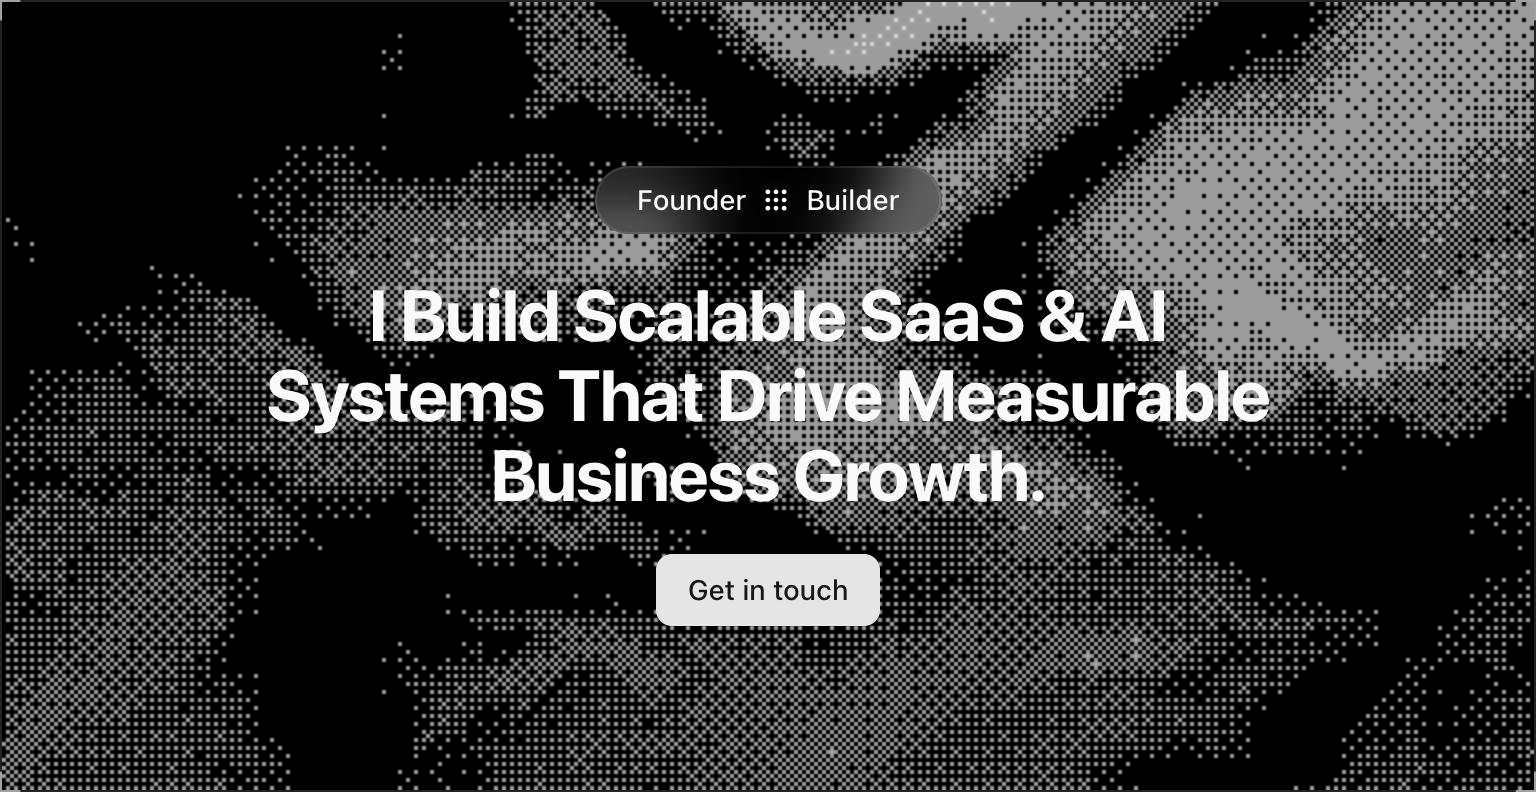
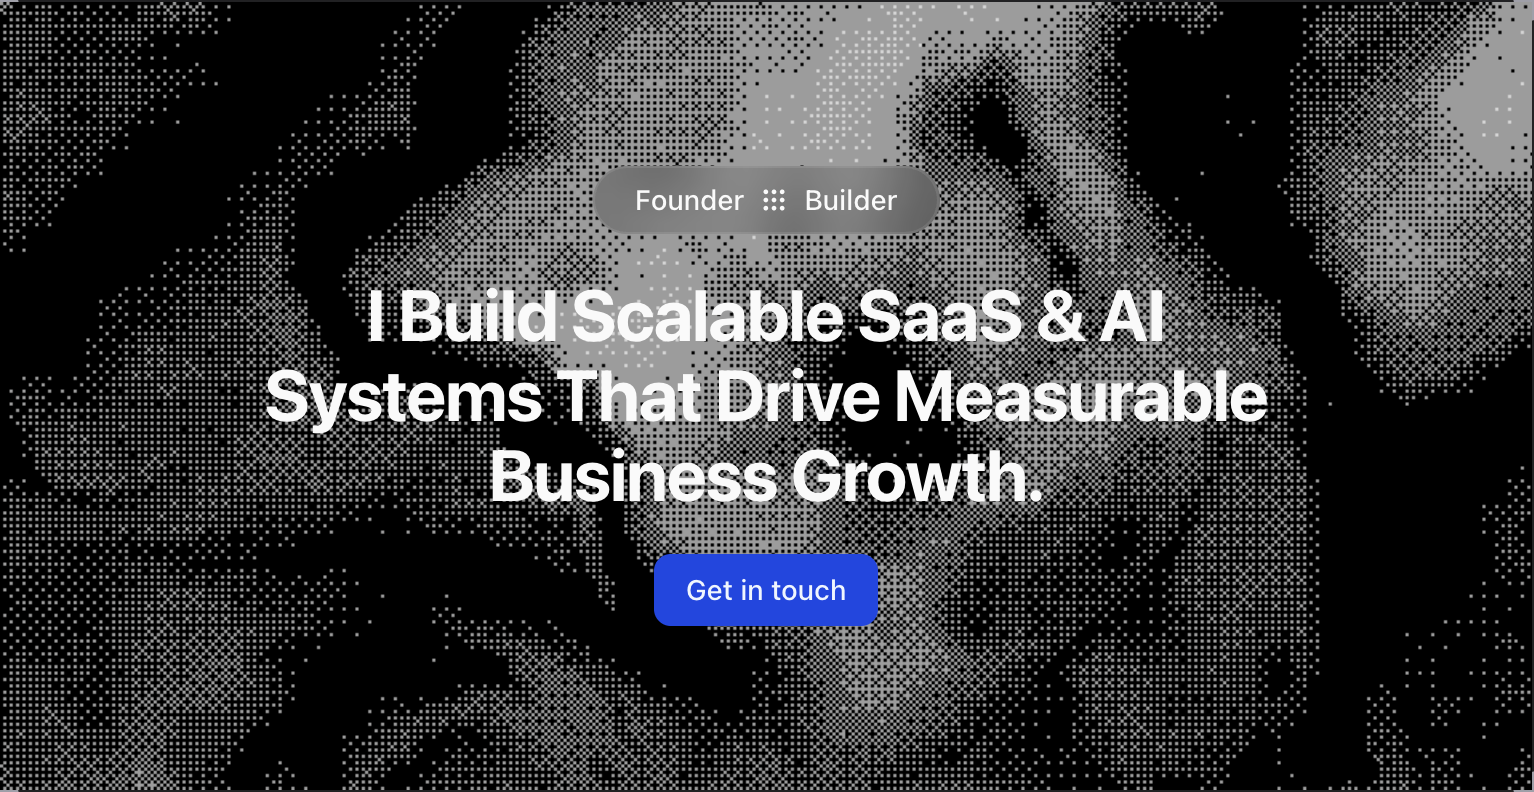
Add structured data for SEO enhancement across layout and project pages
- Introduced JSON-LD structured data for the homepage and project case study pages to improve search engine visibility.
- Updated layout to include structured data for the site and personal information.
- Enhanced project metadata with canonical links and breadcrumb schema for better indexing.

diff --git a/src/app/projects/[slug]/page.tsx b/src/app/projects/[slug]/page.tsx
@@ -9,6 +9,12 @@ import MaxWidthWrapper from "@/components/ui/max-width-wrapper";
 import type { projects } from "@/generated/prisma/client";
 import { SITE_URL } from "@/lib/constants";
 import { server } from "@/lib/elysia/server";
+import {
+  PERSON_SCHEMA_ID,
+  safeJsonLdStringify,
+  toAbsoluteUrl,
+  WEBSITE_SCHEMA_ID,
+} from "@/lib/json-ld";
 import { cn } from "@/lib/utils";
 
 type Project = projects;
@@ -74,6 +80,21 @@ function TagList({ items }: { items: string[] }) {
       ))}
     </div>
   );
+}
+
+function toIsoDate(value: unknown): string | undefined {
+  if (value instanceof Date) {
+    return value.toISOString();
+  }
+
+  if (typeof value === "string") {
+    const parsed = new Date(value);
+    if (!Number.isNaN(parsed.getTime())) {
+      return parsed.toISOString();
+    }
+  }
+
+  return undefined;
 }
 
 export async function generateMetadata({
@@ -150,9 +171,70 @@ export default async function ProjectCaseStudyPage({
 
   const executionItems =
     project.execution?.trim().split(/\n/).filter(Boolean) ?? [];
+  const canonical = `${SITE_URL}/projects/${slug}`;
+  const title = project.seoTitle ?? project.title;
+  const description = project.seoDescription ?? project.tagline;
+  const publishedAt = toIsoDate(project.createdAt);
+  const updatedAt = toIsoDate(project.updatedAt);
+  const imageUrl = toAbsoluteUrl(project.coverImage);
+  const aboutItems = [project.industry, project.projectType]
+    .filter((value): value is string => Boolean(value))
+    .map((value) => ({ "@type": "Thing", name: value }));
+  const projectJsonLd = {
+    "@context": "https://schema.org",
+    "@graph": [
+      {
+        "@type": "BreadcrumbList",
+        "@id": `${canonical}#breadcrumb`,
+        itemListElement: [
+          {
+            "@type": "ListItem",
+            position: 1,
+            name: "Home",
+            item: SITE_URL,
+          },
+          {
+            "@type": "ListItem",
+            position: 2,
+            name: "Projects",
+            item: `${SITE_URL}/#projects`,
+          },
+          {
+            "@type": "ListItem",
+            position: 3,
+            name: project.title,
+            item: canonical,
+          },
+        ],
+      },
+      {
+        "@type": "Article",
+        "@id": `${canonical}#article`,
+        headline: title,
+        description,
+        url: canonical,
+        mainEntityOfPage: canonical,
+        isPartOf: {
+          "@id": WEBSITE_SCHEMA_ID,
+        },
+        image: [imageUrl],
+        author: { "@id": PERSON_SCHEMA_ID },
+        publisher: { "@id": PERSON_SCHEMA_ID },
+        ...(publishedAt ? { datePublished: publishedAt } : {}),
+        ...(updatedAt ? { dateModified: updatedAt } : {}),
+        ...(project.keywords?.length
+          ? { keywords: project.keywords.join(", ") }
+          : {}),
+        ...(aboutItems.length ? { about: aboutItems } : {}),
+      },
+    ],
+  };
 
   return (
     <article className="min-h-screen">
+      <script type="application/ld+json">
+        {safeJsonLdStringify(projectJsonLd)}
+      </script>
       <MaxWidthWrapper parentBorder="border-b">
         <header className="relative w-full">
           <Image

diff --git a/src/app/layout.tsx b/src/app/layout.tsx
@@ -8,6 +8,12 @@ import Navbar from "@/components/global/navbar";
 import ThemeProvider from "@/components/providers/theme-provider";
 import { Toaster } from "@/components/ui/sonner";
 import { SITE_URL } from "@/lib/constants";
+import {
+  PERSON_SCHEMA_ID,
+  safeJsonLdStringify,
+  toAbsoluteUrl,
+  WEBSITE_SCHEMA_ID,
+} from "@/lib/json-ld";
 import { cn } from "@/lib/utils";
 
 const geistSans = Geist({
@@ -19,6 +25,39 @@ const geistMono = Geist_Mono({
   variable: "--font-geist-mono",
   subsets: ["latin"],
 });
+
+const rootJsonLd = {
+  "@context": "https://schema.org",
+  "@graph": [
+    {
+      "@type": "Person",
+      "@id": PERSON_SCHEMA_ID,
+      name: "Mushood Hanif",
+      url: SITE_URL,
+      image: toAbsoluteUrl("/og-image.png"),
+      jobTitle: "Founder and Builder",
+      description:
+        "Founder and Builder specializing in scalable SaaS platforms, AI-powered automation systems, Next.js, Node.js, and high-performance product engineering.",
+      knowsAbout: [
+        "SaaS Architecture",
+        "AI Automation",
+        "Next.js",
+        "Node.js",
+        "TypeScript",
+      ],
+    },
+    {
+      "@type": "WebSite",
+      "@id": WEBSITE_SCHEMA_ID,
+      url: SITE_URL,
+      name: "Mushood Hanif",
+      description:
+        "Portfolio of Mushood Hanif focused on scalable SaaS and AI-powered systems.",
+      inLanguage: "en-US",
+      publisher: { "@id": PERSON_SCHEMA_ID },
+    },
+  ],
+};
 
 export const metadata: Metadata = {
   metadataBase: new URL(SITE_URL),
@@ -104,6 +143,9 @@ export default function RootLayout({
       <body
         className={cn(geistSans.variable, geistMono.variable, "antialiased")}
       >
+        <script type="application/ld+json">
+          {safeJsonLdStringify(rootJsonLd)}
+        </script>
         <Analytics />
         <SpeedInsights />
         <ThemeProvider

diff --git a/src/app/page.tsx b/src/app/page.tsx
@@ -6,12 +6,38 @@ import Projects from "@/components/landing/projects";
 import Services from "@/components/landing/services";
 import Skills from "@/components/landing/skills";
 import Testimonials from "@/components/landing/testimonials";
+import { SITE_URL } from "@/lib/constants";
+import {
+  PERSON_SCHEMA_ID,
+  safeJsonLdStringify,
+  WEBSITE_SCHEMA_ID,
+} from "@/lib/json-ld";
 
 export const revalidate = 3600;
 
 const Home = () => {
+  const homePageJsonLd = {
+    "@context": "https://schema.org",
+    "@type": "WebPage",
+    "@id": `${SITE_URL}#webpage`,
+    url: SITE_URL,
+    name: "Mushood Hanif | Founder and Builder",
+    description:
+      "Founder and Builder specializing in scalable SaaS platforms, AI-powered automation systems, Next.js, Node.js, and high-performance product engineering.",
+    inLanguage: "en-US",
+    isPartOf: {
+      "@id": WEBSITE_SCHEMA_ID,
+    },
+    about: {
+      "@id": PERSON_SCHEMA_ID,
+    },
+  };
+
   return (
     <>
+      <script type="application/ld+json">
+        {safeJsonLdStringify(homePageJsonLd)}
+      </script>
       <Hero />
       <About />
       <Skills />

diff --git a/src/lib/json-ld.ts b/src/lib/json-ld.ts
@@ -1,0 +1,19 @@
+import { SITE_URL } from "@/lib/constants";
+
+export const PERSON_SCHEMA_ID = `${SITE_URL}#person`;
+export const WEBSITE_SCHEMA_ID = `${SITE_URL}#website`;
+
+export function safeJsonLdStringify(data: unknown): string {
+  return JSON.stringify(data).replace(/</g, "\\u003c");
+}
+
+export function toAbsoluteUrl(pathOrUrl: string): string {
+  if (/^https?:\/\//i.test(pathOrUrl)) {
+    return pathOrUrl;
+  }
+
+  const normalizedPath = pathOrUrl.startsWith("/")
+    ? pathOrUrl
+    : `/${pathOrUrl}`;
+  return `${SITE_URL}${normalizedPath}`;
+}
